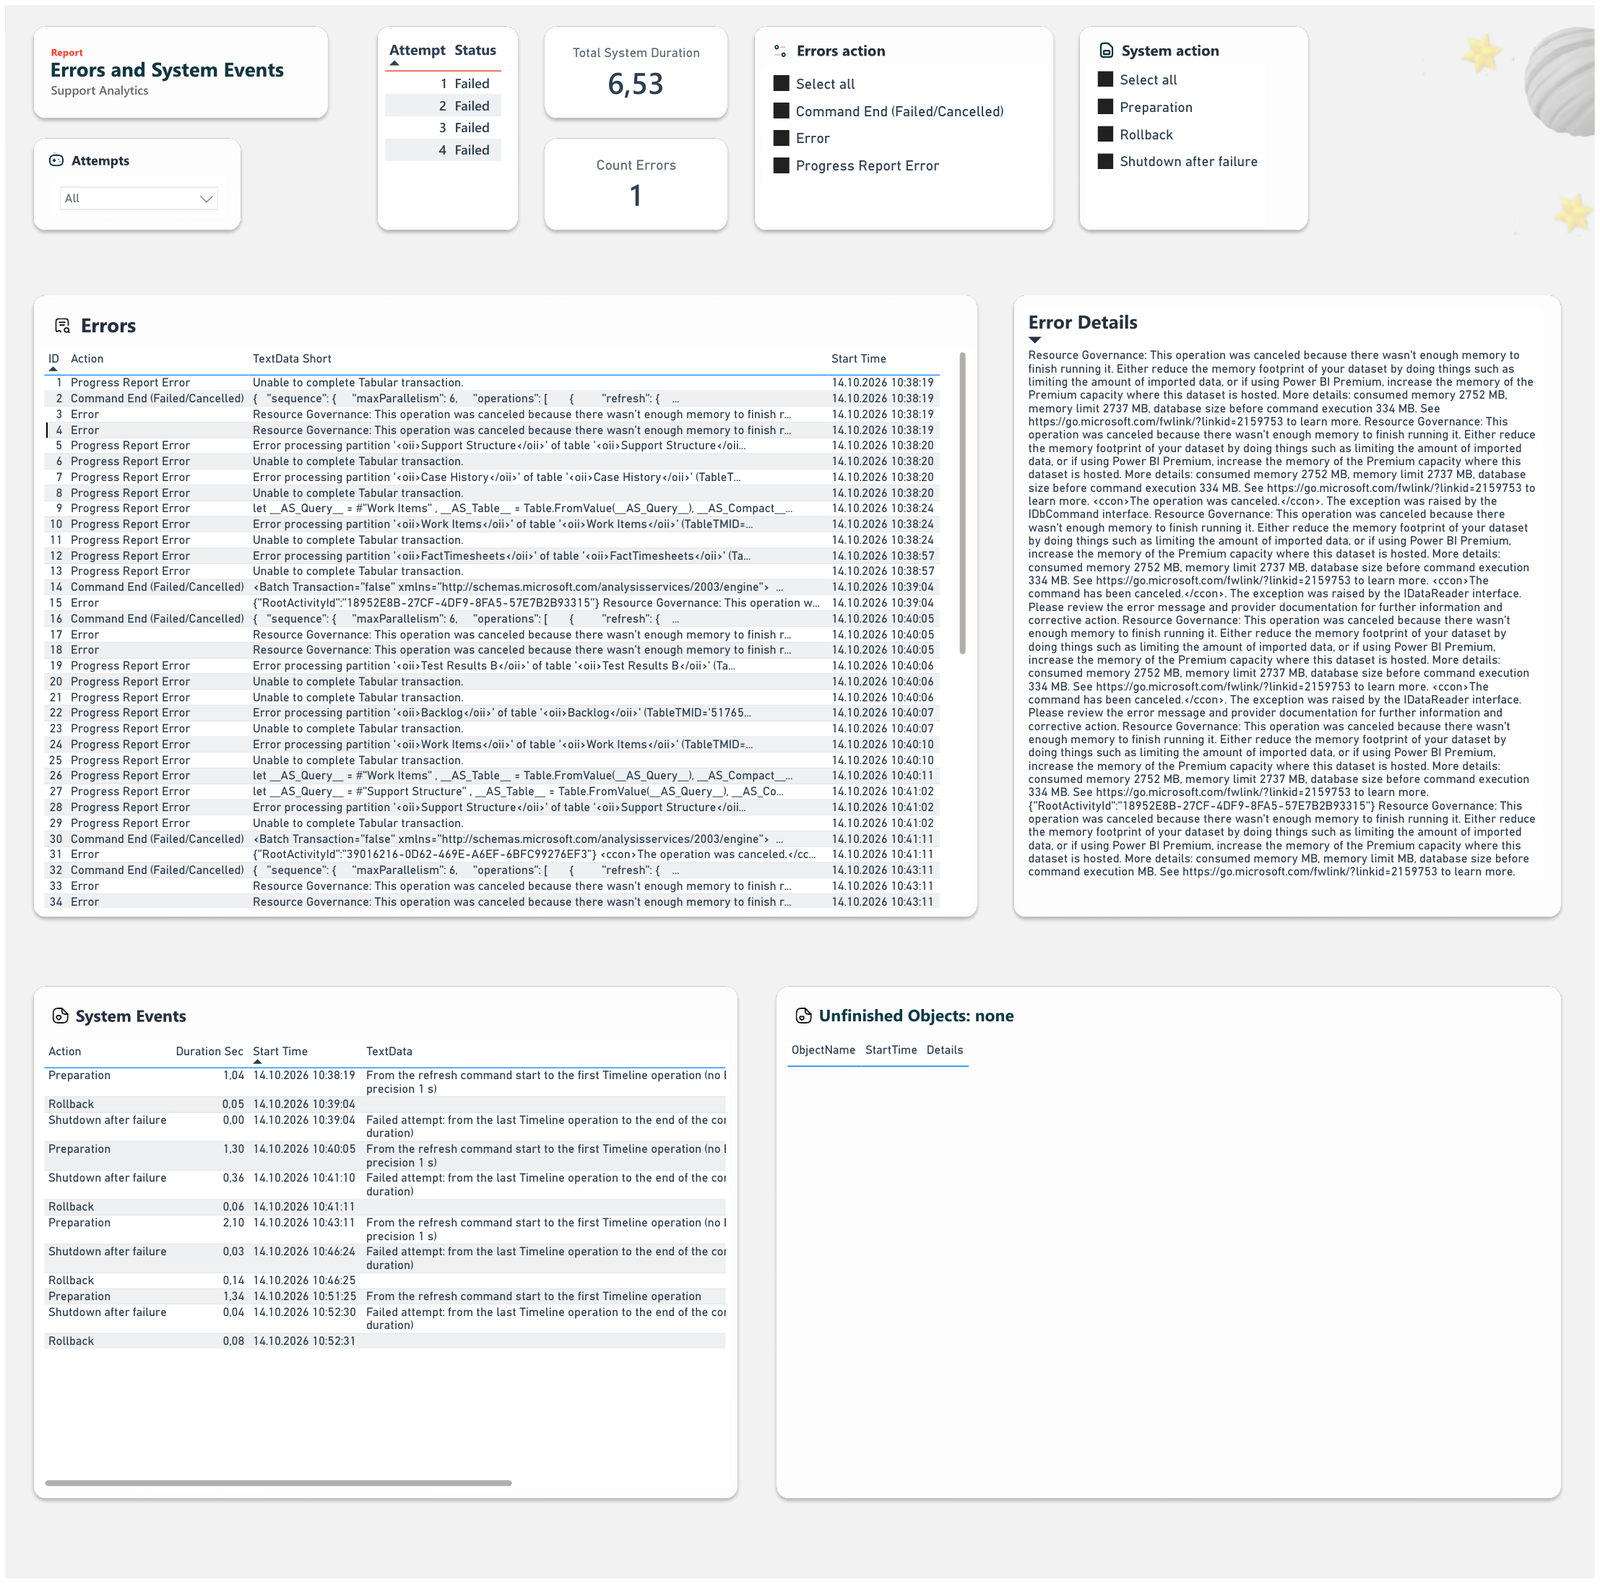
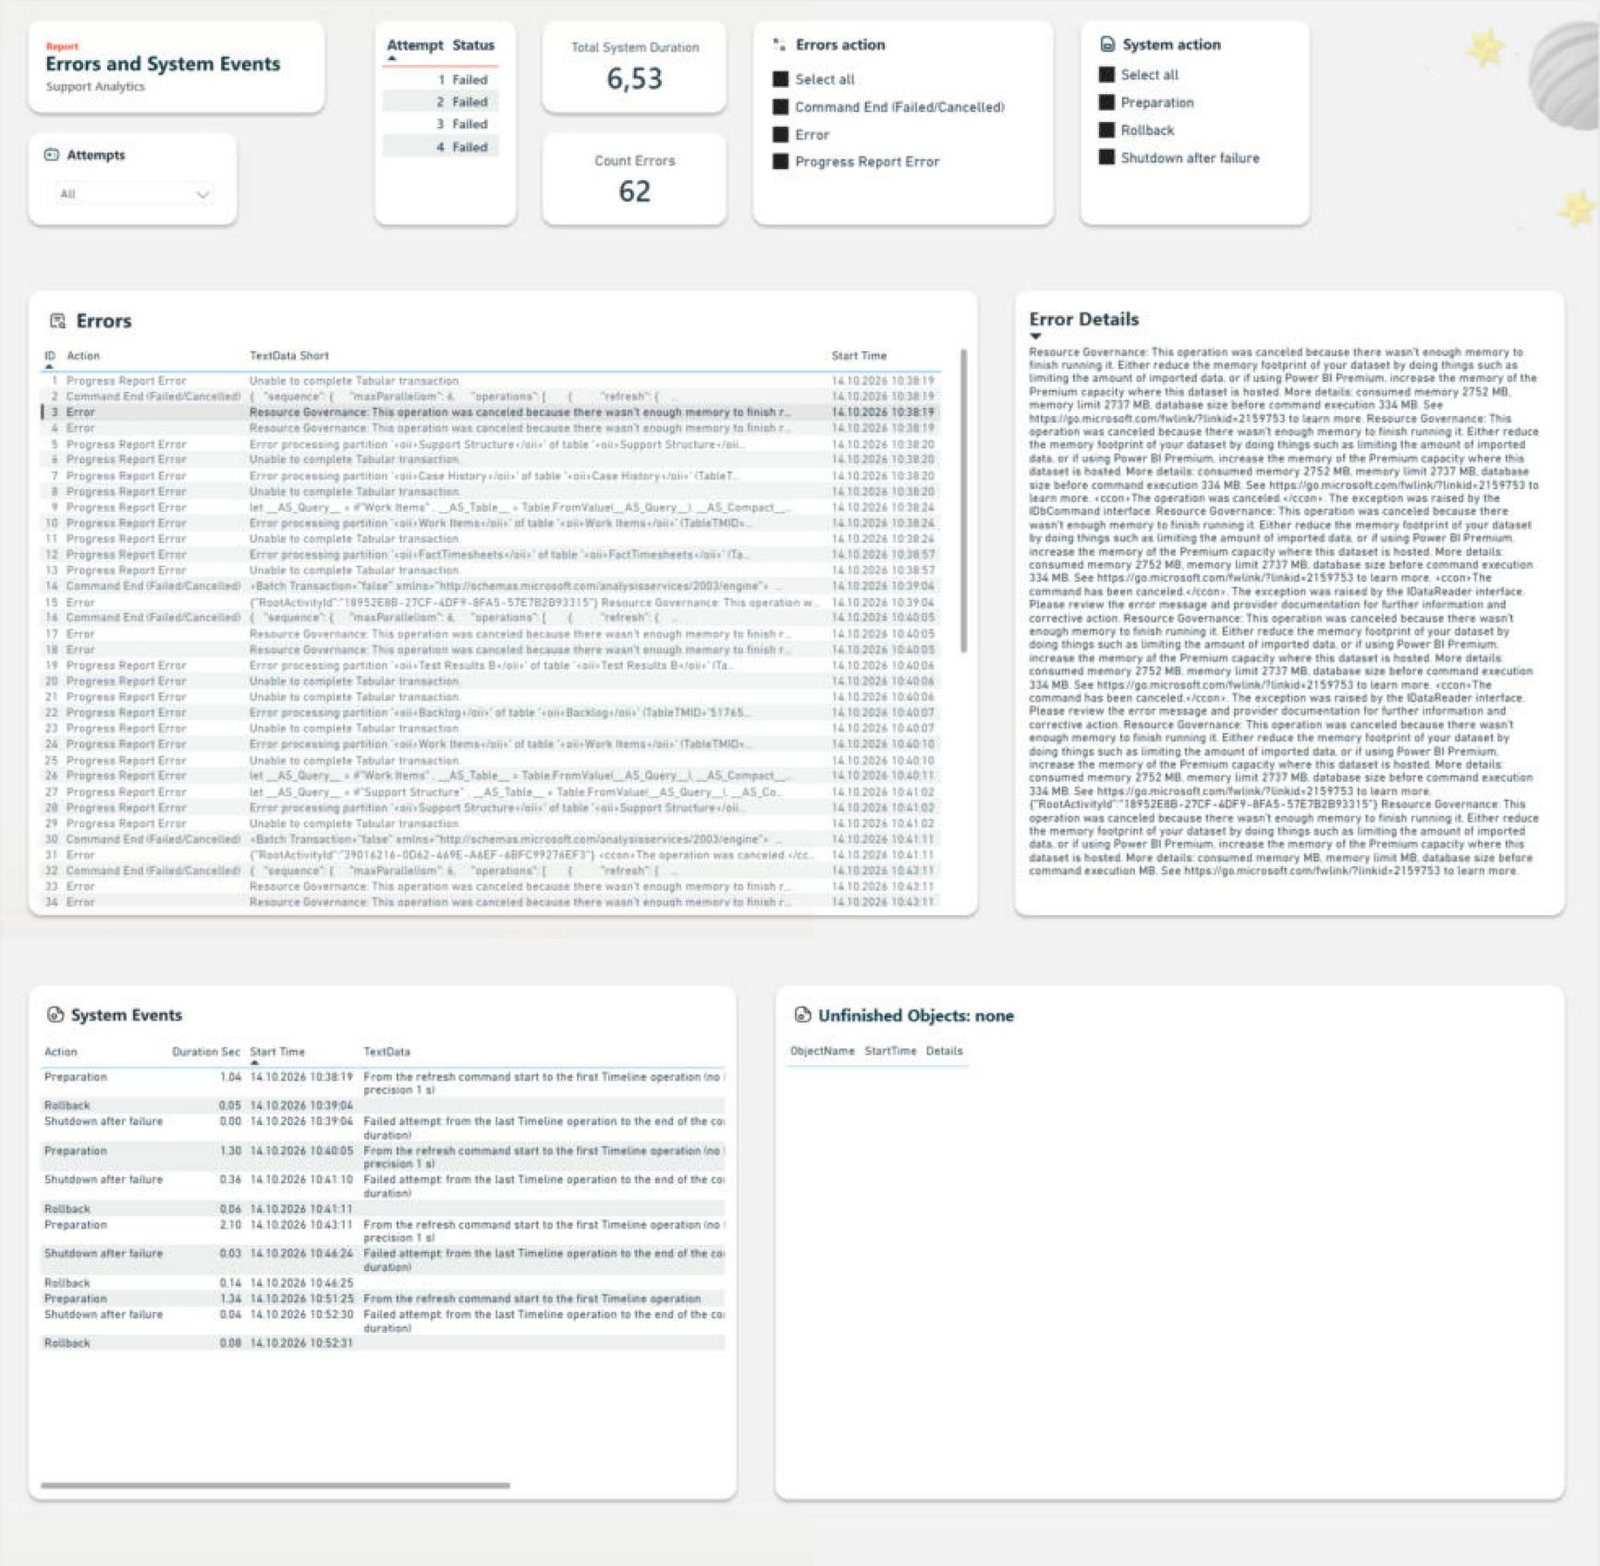
Count Errors ignores the selected error row; new page 3 screenshot

diff --git a/docs/TECHNICAL.md b/docs/TECHNICAL.md
@@ -406,7 +406,7 @@ through `dim_request`, and `ISCROSSFILTERED ( 'Main' )` would then drop System E
 | Max of Thread Parallelism | `MAX ( 'Execution Metrics'[Refresh Parallelism] )` (not used on the report pages) |
 | Sum of VertiPaq CPU Sec | `SUM ( 'Execution Metrics'[VertiPaq CPU Sec] )` |
 | Sum of M Engine CPU Sec | `SUM ( 'Execution Metrics'[M Engine CPU Sec] )` |
-| Count Errors | `COUNTROWS ( Errors ) + 0` (shows 0, not blank, when there are no errors) |
+| Count Errors | `COUNTROWS ( Errors ) + 0` (shows 0, not blank, when there are no errors). A row selected in the Errors table does not filter it |
 | Attempt Info | `"Attempt 1 of 4 · Failed"` for the selected attempt, or `"4 attempts selected"` |
 | Error Details | Full `TextData` of the error selected in the Errors table, otherwise a hint to select a row |
 | Unfinished Title | Title of the Unfinished Objects table: `"Unfinished Objects: none"` or the number of rows |
